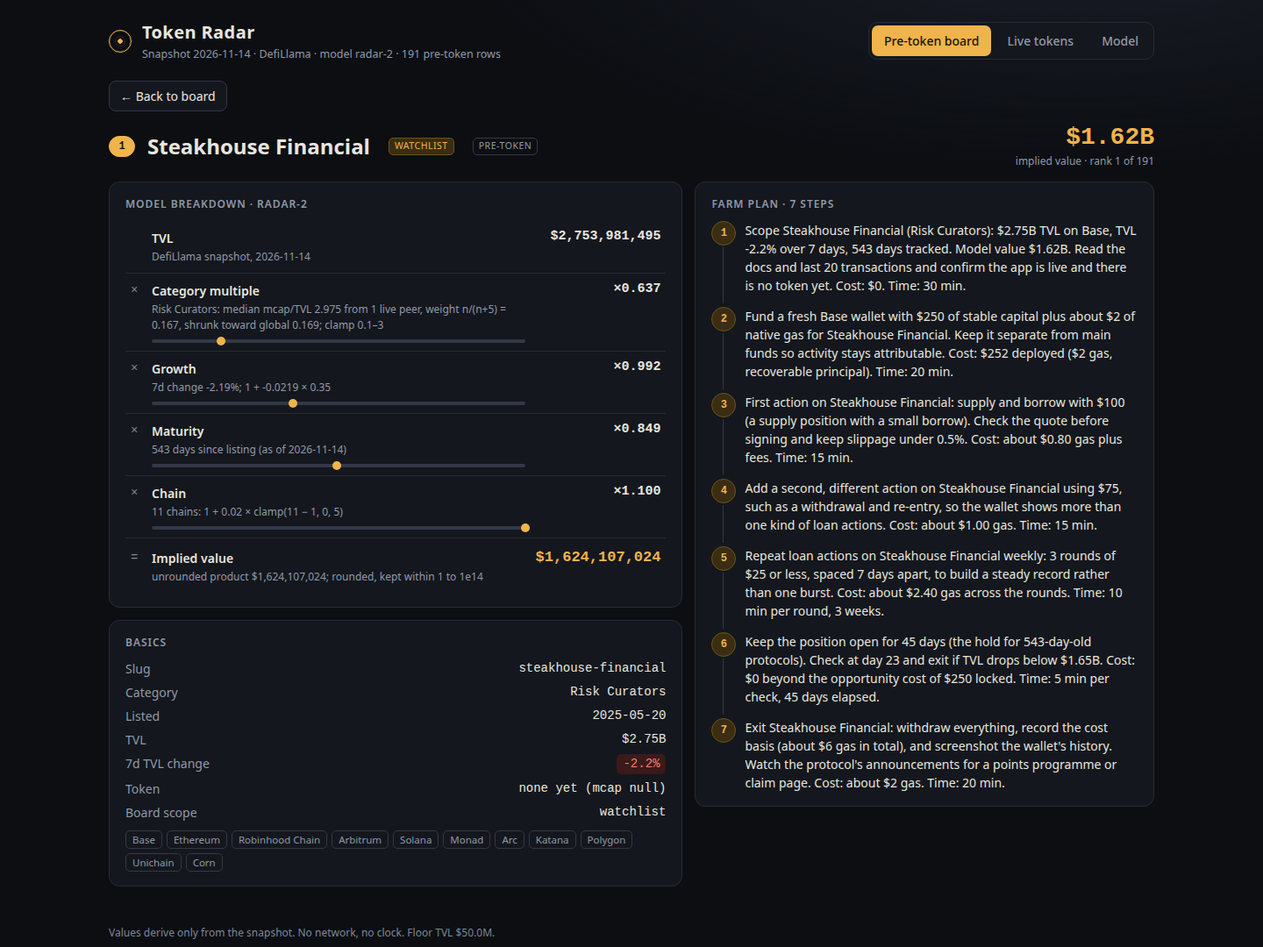
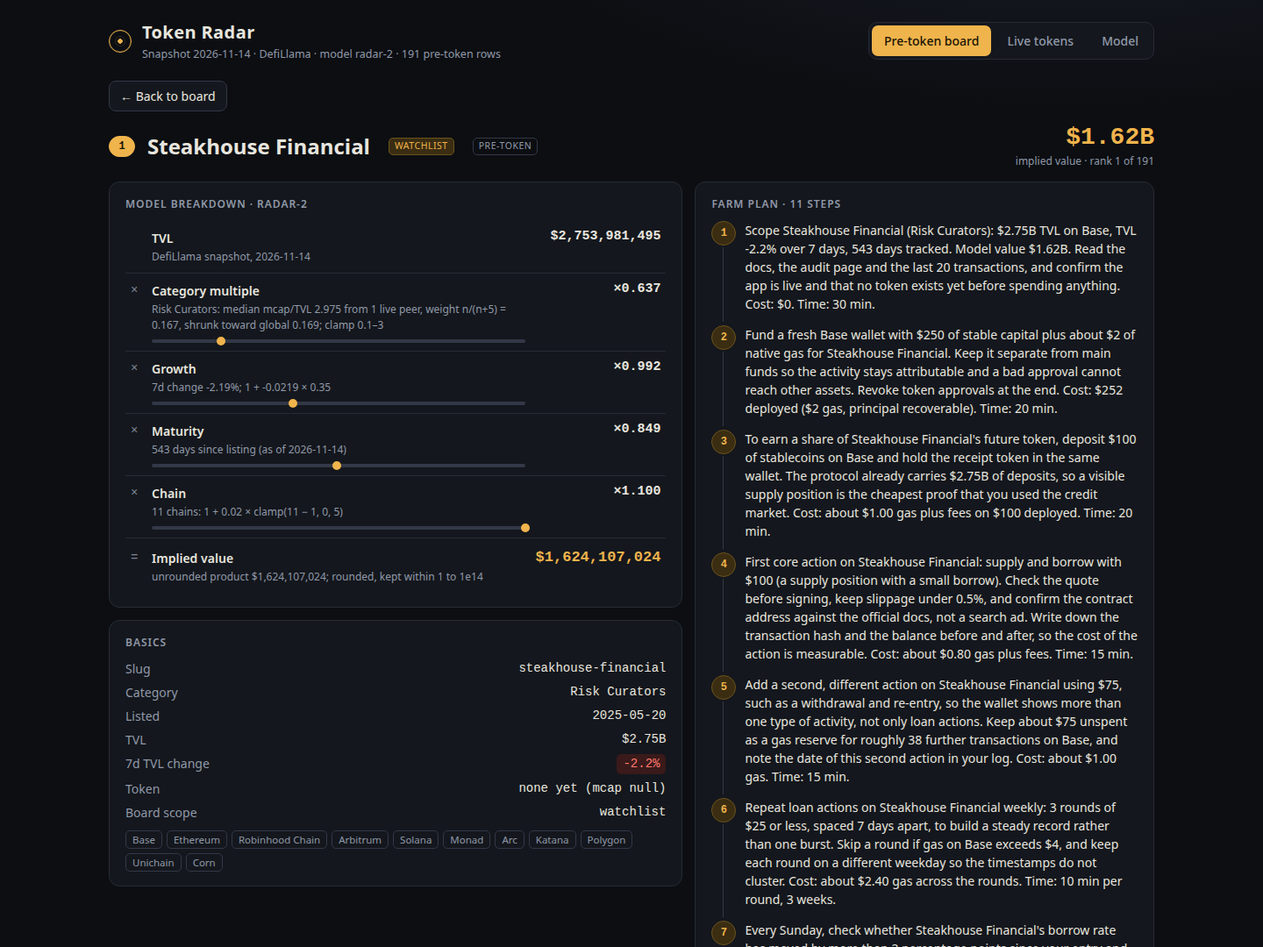
Farm plan v5: archetype-based step patterns (Gemini pattern system), 11 steps per plan

Changed region(s): [[0.5625, 0.275, 0.9062, 1.0], [0.0938, 0.9778, 0.4062, 1.0], [0.625, 0.2139, 0.6562, 0.2444]]

diff --git a/lib/farm.ts b/lib/farm.ts
@@ -1,0 +1,202 @@
+// Farm plan generator. Category -> one of six archetypes (Gemini pattern system, see CLAUDE.md v5), then a fixed step skeleton:
+// Scope, Fund, Opening(3 variants), First action, Second action, Repeat, Monitoring(2), Hold, Record-keeping(8), Exit(2), Wrap-up.
+// Pattern choice is a pure hash of the slug (FNV-1a), so the same snapshot always yields the same text. No clock, no randomness.
+import type { Factors, Protocol } from './model.ts';
+
+export type Archetype = 'lending' | 'dex' | 'yield' | 'deriv' | 'bridge' | 'market';
+
+// Snapshot category name -> archetype. Exact names first; unknown names fall through to keyword rules, then to 'yield'.
+const CATEGORY_TABLE: Record<string, Archetype> = {
+  'Lending': 'lending', 'Uncollateralized Lending': 'lending', 'CDP': 'lending', 'CDP Manager': 'lending', 'Collateral Markets': 'lending',
+  'Collateral Management': 'lending', 'Risk Curators': 'lending', 'Onchain Capital Allocator': 'lending', 'Stablecoin Issuer': 'lending',
+  'Dual-Token Stablecoin': 'lending', 'Algo-Stables': 'lending', 'Reserve Currency': 'lending', 'Stablecoin Wrapper': 'lending',
+  'Dexs': 'dex', 'Liquidity Manager': 'dex', 'Launchpad': 'dex', 'Indexes': 'dex', 'OTC Marketplace': 'dex', 'Token Locker': 'dex',
+  'Yield': 'yield', 'Yield Aggregator': 'yield', 'Farm': 'yield', 'Leveraged Farming': 'yield', 'Basis Trading': 'yield', 'Staking Pool': 'yield',
+  'Liquid Staking': 'yield', 'Restaking': 'yield', 'Liquid Restaking': 'yield', 'Restaked BTC': 'yield', 'Anchor BTC': 'yield',
+  'Decentralized BTC': 'yield', 'RWA': 'yield', 'CeDeFi': 'yield', 'Governance Incentives': 'yield', 'DOR': 'yield',
+  'Derivatives': 'deriv', 'Options': 'deriv', 'Options Vault': 'deriv', 'Synthetics': 'deriv', 'Interest Rate Derivatives': 'deriv',
+  'Bridge': 'bridge', 'Cross Chain Bridge': 'bridge', 'Canonical Bridge': 'bridge', 'Chain': 'bridge', 'Privacy': 'bridge',
+  'Payments': 'bridge', 'Crypto Card Issuer': 'bridge',
+  'Prediction Market': 'market', 'AI Agents': 'market', 'Decentralized AI': 'market', 'NFT Marketplace': 'market', 'Insurance': 'market',
+};
+const KEYWORD_RULES: [RegExp, Archetype][] = [
+  [/predict|gam|nft|ai\b|insur|bet/i, 'market'],
+  [/deriv|option|perp|synthetic|futures|rate/i, 'deriv'],
+  [/bridge|cross|chain|payment|card|privacy/i, 'bridge'],
+  [/lend|borrow|loan|cdp|collateral|credit|stable|curator|allocator/i, 'lending'],
+  [/dex|swap|amm|liquidity|launch|exchange|market|otc/i, 'dex'],
+  [/yield|vault|stak|farm|rwa|basis|bond|index/i, 'yield'],
+];
+export function archetypeOf(category: string | null): Archetype {
+  if (category !== null) {
+    const hit = CATEGORY_TABLE[category];
+    if (hit !== undefined) return hit;
+    for (const [re, a] of KEYWORD_RULES) if (re.test(category)) return a;
+  }
+  return 'yield';
+}
+
+function hash(s: string): number {
+  let h = 0x811c9dc5;
+  for (let i = 0; i < s.length; i++) { h ^= s.charCodeAt(i); h = Math.imul(h, 0x01000193) >>> 0; }
+  return h >>> 0;
+}
+const pick = <T,>(xs: T[], slug: string, slot: string): T => xs[hash(`${slot}:${slug}`) % xs.length]!;
+
+const fmtM = (n: number) => (n >= 1e9 ? `$${(n / 1e9).toFixed(2)}B` : `$${(n / 1e6).toFixed(1)}M`);
+export function capitalFor(tvl: number): number { return tvl < 25e6 ? 50 : tvl < 100e6 ? 100 : tvl < 500e6 ? 150 : 250; }
+export function holdDaysFor(ageUsed: number): number { return ageUsed < 90 ? 14 : ageUsed < 365 ? 30 : ageUsed < 1095 ? 45 : 60; }
+
+// Concrete action wording per archetype (the pre-v5 "kit"), used by the First / Second / Repeat steps.
+const KITS: Record<Archetype, { act: string; ask: string; verb: string }> = {
+  lending: { act: 'supply and borrow', ask: 'a supply position with a small borrow', verb: 'loan actions' },
+  dex: { act: 'swap and provide liquidity', ask: 'a stable pair LP position', verb: 'swaps' },
+  yield: { act: 'deposit into a vault or stake', ask: 'a single deposit', verb: 'vault actions' },
+  deriv: { act: 'trade a small perp or option position', ask: 'a low-leverage position', verb: 'trades' },
+  bridge: { act: 'bridge assets', ask: 'a round-trip bridge transfer', verb: 'bridge transfers' },
+  market: { act: 'place a small position or buy an in-app item', ask: 'one small market position', verb: 'market actions' },
+};
+
+interface Ctx {
+  n: string; ch: string; chB: string; tvl: string; tvl60: string; cap: number; slice: number; half: number; rest: number; small: number; big: number;
+  gas: number; hold: number; asset: string; trend: string;
+}
+type Pat = (c: Ctx) => string;
+
+const OPENING: Record<Archetype, Pat[]> = {
+  lending: [
+    (c) => `To earn a share of ${c.n}'s future token, deposit $${c.slice} of ${c.asset} on ${c.ch} and hold the receipt token in the same wallet. The protocol already carries ${c.tvl} of deposits, so a visible supply position is the cheapest proof that you used the credit market.`,
+    (c) => `Borrow a small amount of stablecoin against the collateral you supplied on ${c.n} (${c.ch}), keeping the loan under 30% of the collateral value, about $${Math.round(c.slice * 0.3)}. A live debt position traces back to a single wallet, which idle capital parked in a vault never does.`,
+    (c) => `Your first move on ${c.n} is to open a 200% collateralised position on ${c.ch} with $${c.slice} of collateral, because a debt position is the only on-chain footprint that proves you used the credit engine. Mint or borrow no more than $${Math.round(c.slice / 2)} against it.`,
+  ],
+  dex: [
+    (c) => `Swap $${c.small} of ${c.asset} for a second asset through ${c.n} on ${c.ch} and keep the route receipt in your wallet. Against ${c.tvl} of liquidity the price impact stays small, and the swap history is the clearest proof that you routed through it.`,
+    (c) => `Provide $${c.slice} of liquidity to the deepest stable pair on ${c.n} (${c.ch}) and set a price range that matches the last 30 days of volatility rather than copying the default range. A narrow range on ${c.tvl} of TVL earns more fees per dollar, so check it twice.`,
+    (c) => `Run three differently sized swaps on ${c.n} over three days: a $${c.small} test swap, a $${c.half} main swap, and a $${c.big} swap. Spacing them out makes your activity read as a trader's habit instead of a one-off airdrop farm on ${c.ch}.`,
+  ],
+  yield: [
+    (c) => `Stake or deposit $${c.slice} of ${c.asset} with ${c.n} on ${c.ch} and hold the resulting receipt token in the same wallet, so the yield position doubles as a verifiable receipt. The protocol holds ${c.tvl} of deposits, and ${c.trend}.`,
+    (c) => `Split $${c.slice} across two of ${c.n}'s strategies on ${c.ch}, $${c.half} each, because the yield only makes sense if you can compare the two returns side by side in your own records. Note the entry date of each so you can measure the difference later.`,
+    (c) => `Deposit $${c.slice} into ${c.n}'s main vault on ${c.ch}, then immediately note the entry APY shown on the app and the lock-up end date. Without those two numbers the rest of the plan has no baseline, and the pool holds ${c.tvl} to compare against.`,
+  ],
+  deriv: [
+    (c) => `Open a $${c.slice} long position on a major market on ${c.n} with 2x leverage and a stop-loss at 10%, because a live position with defined risk is the activity the derivatives desk actually tracks. Margin is $${c.half}, and ${c.n} carries ${c.tvl} of collateral.`,
+    (c) => `Sell a short-dated covered option or provide margin liquidity on ${c.n} (${c.ch}) with $${c.slice}, treating the premium as your fee for supplying what the market needs. Choose an expiry within ${c.hold} days so the position matures inside this plan.`,
+    (c) => `Hedge $${c.half} of spot ${c.asset} by shorting the same amount on ${c.n}'s perp market, then keep both legs open for at least 14 days so the hedge, not a single trade, becomes your track record. The funding leg costs a few dollars on ${c.ch}.`,
+  ],
+  bridge: [
+    (c) => `Bridge $${c.slice} of ${c.asset} from ${c.ch} to ${c.chB} through ${c.n} in two tranches: $${c.half} now and $${c.half} in 7 days. A bridge that sees sustained use looks like adoption, and ${c.n} already secures ${c.tvl} of locked value.`,
+    (c) => `Use ${c.n} to move $${c.slice} of ${c.asset} from ${c.ch} to ${c.chB}, then immediately deploy it into that chain's native app. A bridge transfer that ends in a dead wallet looks like a test, not adoption, and the second leg costs about $${c.gas} of gas.`,
+    (c) => `Send a $${c.small} test bridge through ${c.n} first, confirm the arrival time and fee, then send the remaining $${c.slice - c.small} only after the test lands within 20 minutes. This costs one extra gas payment but protects ${c.slice - c.small} dollars from a bad route.`,
+  ],
+  market: [
+    (c) => `Place a $${c.small} position on one open market on ${c.n} (${c.ch}) and keep it open until resolution, because a settled outcome is the only bet the platform can verify end to end. Pick a market that resolves within ${c.hold} days.`,
+    (c) => `Buy $${c.slice} worth of an in-app item or position on ${c.n} (${c.ch}) and use it in your next 5 sessions, so your on-chain inventory and your activity history tell the same story. The platform holds ${c.tvl} in total.`,
+    (c) => `Split $${c.slice} across three markets on ${c.n}: a $${c.small} short-term position, a $${c.half} medium-term one, and the remainder as a long shot. Log the entry price of each so you can compare your hit rate later. TVL stands at ${c.tvl}.`,
+  ],
+};
+const OPENING_COST = (c: Ctx) => `Cost: about $${(c.gas * 0.5).toFixed(2)} gas plus fees on $${c.slice} deployed. Time: 20 min.`;
+
+const MONITOR: Record<Archetype, Pat[]> = {
+  lending: [
+    (c) => `Once a week, open the ${c.n} dashboard and record your health factor, outstanding debt, and liquidation price, then compare with last week to spot a slow drift before it becomes a margin call. Also note whether ${c.n}'s TVL has moved from ${c.tvl}.`,
+    (c) => `Every Sunday, check whether ${c.n}'s borrow rate has moved by more than 2 percentage points since your entry and whether total borrows grew or shrank, because a sudden rate spike is usually the first sign that the pool is about to change. ${c.trend}.`,
+  ],
+  dex: [
+    (c) => `Every Monday, note the 24-hour volume and fee APR of your pool on ${c.n} and check whether your share of the pool has been diluted by more than 10% since last week. TVL began at ${c.tvl}, and ${c.trend}.`,
+    (c) => `Once a week, compare the price impact of a $${c.small} swap on ${c.n} with the same swap on a rival DEX and log which route was cheaper, so you can justify staying or moving your liquidity. A gap above 0.3% is worth a note.`,
+  ],
+  yield: [
+    (c) => `Every Friday, record ${c.n}'s current APY, your accrued rewards, and the price of the receipt token against ${c.asset}, then flag any week where the APY drops by more than 25% relative to your entry. ${c.trend}.`,
+    (c) => `Once a week, check whether ${c.n}'s total deposits have risen or fallen by more than 15% from ${c.tvl} and whether the strategy or validator set has changed, because a shrinking base often precedes a yield cut.`,
+  ],
+  deriv: [
+    (c) => `Every three days, check your perp's funding rate, open interest, and liquidation price on ${c.n}, and log any funding flip from positive to negative, because that flip shows which side of the market is paying to stay open. ${c.trend}.`,
+    (c) => `Once a week, review the implied volatility of your ${c.n} position and the time left to expiry, then decide whether to roll it or let it expire based on remaining time value, not on price alone. Collateral stood at ${c.tvl} at entry.`,
+  ],
+  bridge: [
+    (c) => `Every week, time a $${c.small} bridge transfer on ${c.n} from ${c.ch} to ${c.chB}, record the fee and the minutes to finality, and flag any week where the fee rises by more than 50%. ${c.trend}.`,
+    (c) => `Once a week, check ${c.n}'s total bridged volume and the number of destination chains, then note whether your own route is still among the top three by volume or has fallen out of use. Locked value began at ${c.tvl}.`,
+  ],
+  market: [
+    (c) => `Every Sunday, check the open interest and the price movement on your ${c.n} market, then record whether your position is in profit or loss and whether the market's volume has doubled or halved since entry. ${c.trend}.`,
+    (c) => `Once a week, log your ${c.n} sessions, the items you earned, and the floor price of your main in-app asset, then flag any week where the active user count drops by more than 20%. Platform TVL began at ${c.tvl}.`,
+  ],
+};
+const MONITOR_COST = (c: Ctx) => `Cost: $0 beyond gas for test actions (about $${(c.gas * 0.3).toFixed(2)}). Time: 10 min per check, weekly.`;
+
+const RECORD: Pat[] = [
+  (c) => `Create a single spreadsheet row per protocol with columns for Date, Protocol, Chain, Action, Amount In, Amount Out, Gas Fee, Tx Hash, TVL at Entry (${c.tvl} for ${c.n}), Current TVL, Entry APY, Current APY, and Notes, then fill it within 10 minutes of every transaction on ${c.ch}.`,
+  (c) => `Keep a dated notes file for ${c.n} and, after each weekly check, add one line with the date, the metric you checked, the value you saw, and one sentence on what changed since last week. Over ${c.hold} days this gives you about ${Math.max(2, Math.round(c.hold / 7))} entries to review.`,
+  (c) => `Save every ${c.n} transaction hash in a "Proof" column next to the action it belongs to, and paste the ${c.ch} block explorer link beside it, so you can prove the position existed without re-opening the wallet. Budget $${c.cap} is the whole exposure.`,
+  (c) => `Log your entry and exit triggers in the same row as the position: write "Exit if TVL < 60% of ${c.tvl}" (that is ${c.tvl60}) and "Exit on Day 90 if no announcement", then add the actual exit date and reason when you close ${c.n}.`,
+  (c) => `Track your $${c.cap} budget for ${c.n} as three separate lines: $${Math.round(c.cap * 0.45)} for the main action, $${Math.round(c.cap * 0.35)} for the second action, and $${c.cap - Math.round(c.cap * 0.45) - Math.round(c.cap * 0.35)} held back for gas and fees. Update the remaining balance after each spend.`,
+  (c) => `Screenshot your dashboard balance and your position page on ${c.n} once a week, name the file YYYY-MM-DD_${c.n.toLowerCase().replace(/[^a-z0-9]+/g, '-')}_position.png, and store it in a folder named after the protocol, so the visual record matches the spreadsheet for the ${c.hold}-day hold.`,
+  (c) => `Record gas separately from the action: log the gas token, the gas amount, the USD value at the time, and the chain (${c.ch}). Expect about $${c.gas} per transaction here, so that you can later calculate your true net return on the $${c.cap} after fees.`,
+  (c) => `At the end of each month, add a summary row that totals your ${c.n} deposits, withdrawals, fees paid, rewards earned, and current position value, then write one line on whether the farm is still worth $${c.cap} of locked capital, given that ${c.trend}.`,
+];
+const RECORD_COST = `Cost: $0. Time: 10 min setup, about 5 min per entry.`;
+
+const EXIT: Record<Archetype, Pat[]> = {
+  lending: [
+    (c) => `Close the position and repay the loan if your health factor falls below 1.3 for two consecutive checks, or if ${c.n}'s TVL drops below 60% of its entry value, which is under ${c.tvl60}. Repay before withdrawing, in that order, on ${c.ch}.`,
+    (c) => `Unwind the position on day 90 if ${c.n} has still not announced a token, snapshot, or points program, and do not re-enter on the same wallet until a new public milestone appears. Keep the closed history untouched for a future snapshot.`,
+  ],
+  dex: [
+    (c) => `Withdraw your liquidity if the pool's TVL falls below 60% of its value at entry (${c.tvl60} for the protocol as a whole) or if the fee APR stays below 3% for three consecutive weeks. Pull the full $${c.slice} and note the fees earned.`,
+    (c) => `Stop routing swaps through ${c.n} after 90 days without a token announcement and move your volume to the next DEX on your watchlist, keeping the old wallet history on ${c.ch} untouched for a future snapshot.`,
+  ],
+  yield: [
+    (c) => `Unstake and exit if the receipt token depegs by more than 2% from ${c.asset} for 48 hours, or if ${c.n}'s TVL falls below 60% of its entry value, i.e. under ${c.tvl60}. Harvest accrued rewards first, then withdraw principal.`,
+    (c) => `Close the position on day 90 with no token or points announcement, harvest the accrued yield first, and redeploy the principal of about $${c.slice} to the next yield protocol on your list. Keep the ${c.ch} wallet history intact.`,
+  ],
+  deriv: [
+    (c) => `Close the position immediately if your unrealised loss reaches 25% of margin (about $${Math.round(c.half * 0.25)}), or if ${c.n}'s open interest collapses by more than 40% in a single week. Do not average down on ${c.ch}.`,
+    (c) => `Exit on day 90 if ${c.n} has not published a token, fee-sharing, or points update, and do not open a new leveraged position on the same market until a fresh catalyst appears. Close all legs in one session.`,
+  ],
+  bridge: [
+    (c) => `Stop bridging through ${c.n} if its TVL drops below 60% of your entry level (${c.tvl60}) for two consecutive weeks, or if a transfer takes more than 30 minutes twice in a row. Route the remaining funds back via the canonical path.`,
+    (c) => `Abandon the route on day 90 with no token announcement and consolidate your funds back to ${c.ch}, keeping a record of the final bridge transaction hash for any retroactive claim. Final transfer is about $${c.cap}.`,
+  ],
+  market: [
+    (c) => `Cash out if your position loses more than 25% of its entry value, or if ${c.n}'s daily active users fall below 60% of the level you saw on entry. With a $${c.small} position that caps the loss at about $${Math.round(c.small * 0.25)}.`,
+    (c) => `Stop using ${c.n} on day 90 if there is still no token, season, or rewards announcement, sell the in-app items you no longer need, and move the recovered capital of up to $${c.cap} to the next platform on your list.`,
+  ],
+};
+const EXIT_COST = (c: Ctx) => `Cost: about $${c.gas} gas per exit transaction. Time: 15 min.`;
+
+export function farmPlan(p: Protocol, f: Factors, implied: number): string[] {
+  const arch = archetypeOf(p.category);
+  const kit = KITS[arch];
+  const chain = p.chains[0] ?? 'its main chain';
+  const cap = capitalFor(p.tvl_usd), hold = holdDaysFor(f.age_used);
+  const gas = chain === 'Ethereum' ? 12 : 2;
+  const slice = Math.round(cap * 0.4), reserve = cap - slice;
+  const small = Math.max(5, Math.round(cap * 0.05));
+  const trend = p.change_7d === null ? 'there is no 7-day TVL reading' : `TVL moved ${p.change_7d >= 0 ? '+' : ''}${p.change_7d.toFixed(1)}% over 7 days`;
+  const c: Ctx = {
+    n: p.name, ch: chain, chB: p.chains[1] ?? 'a second chain you already use', tvl: fmtM(p.tvl_usd), tvl60: fmtM(p.tvl_usd * 0.6),
+    cap, slice, half: Math.round(slice / 2), rest: reserve, small, big: Math.round(cap * 0.15), gas, hold,
+    asset: arch === 'yield' && /stak|chain/i.test(p.category ?? '') ? `${chain}'s native token` : 'stablecoins', trend,
+  };
+  const trendTxt = p.change_7d === null ? 'no 7-day TVL reading' : `TVL ${p.change_7d >= 0 ? '+' : ''}${p.change_7d.toFixed(1)}% over 7 days`;
+  const ageTxt = f.age_days === null ? 'unknown listing age' : `${f.age_days} days tracked`;
+  const hold2 = Math.max(7, Math.round(hold / 2));
+  const opening = pick(OPENING[arch], p.slug, 'open')(c);
+  const monitor = pick(MONITOR[arch], p.slug, 'mon')(c);
+  const record = pick(RECORD, p.slug, 'rec')(c);
+  const exit = pick(EXIT[arch], p.slug, 'exit')(c);
+  return [
+    `Scope ${p.name} (${p.category ?? 'uncategorised'}): ${fmtM(p.tvl_usd)} TVL on ${chain}, ${trendTxt}, ${ageTxt}. Model value ${fmtM(implied)}. Read the docs, the audit page and the last 20 transactions, and confirm the app is live and that no token exists yet before spending anything. Cost: $0. Time: 30 min.`,
+    `Fund a fresh ${chain} wallet with $${cap} of stable capital plus about $${gas} of native gas for ${p.name}. Keep it separate from main funds so the activity stays attributable and a bad approval cannot reach other assets. Revoke token approvals at the end. Cost: $${cap + gas} deployed ($${gas} gas, principal recoverable). Time: 20 min.`,
+    `${opening} ${OPENING_COST(c)}`,
+    `First ${arch === 'lending' ? 'core' : 'concrete'} action on ${p.name}: ${kit.act} with $${slice} (${kit.ask}). Check the quote before signing, keep slippage under 0.5%, and confirm the contract address against the official docs, not a search ad. Write down the transaction hash and the balance before and after, so the cost of the action is measurable. Cost: about $${(gas * 0.4).toFixed(2)} gas plus fees. Time: 15 min.`,
+    `Add a second, different action on ${p.name} using $${reserve - Math.round(reserve / 2)}, such as a withdrawal and re-entry, so the wallet shows more than one type of activity, not only ${kit.verb}. Keep about $${Math.round(reserve / 2)} unspent as a gas reserve for roughly ${Math.round(reserve / 2 / gas)} further transactions on ${chain}, and note the date of this second action in your log. Cost: about $${(gas * 0.5).toFixed(2)} gas. Time: 15 min.`,
+    `Repeat ${kit.verb} on ${p.name} weekly: 3 rounds of $${Math.max(5, Math.round(cap * 0.1))} or less, spaced 7 days apart, to build a steady record rather than one burst. Skip a round if gas on ${chain} exceeds $${gas * 2}, and keep each round on a different weekday so the timestamps do not cluster. Cost: about $${(gas * 1.2).toFixed(2)} gas across the rounds. Time: 10 min per round, 3 weeks.`,
+    `${monitor} ${MONITOR_COST(c)}`,
+    `Keep the position open for ${hold} days (the hold for ${f.age_days === null ? 'an unknown-age' : f.age_days + '-day-old'} protocols). Check at day ${hold2} and exit if TVL drops below ${fmtM(p.tvl_usd * 0.6)}. Do not top up during the hold, since extra deposits blur the entry record. Cost: $0 beyond the opportunity cost of $${cap} locked. Time: 5 min per check, ${hold} days elapsed.`,
+    `${record} ${RECORD_COST}`,
+    `${exit} ${EXIT_COST(c)}`,
+    `Wrap up ${p.name}: withdraw everything, record the cost basis (about $${Math.round(gas * 3)} gas in total), and screenshot the wallet's history. Watch the protocol's announcements for a points programme or claim page, and revoke the approvals you granted. Cost: about $${gas} gas. Time: 20 min.`,
+  ];
+}

diff --git a/lib/model.ts b/lib/model.ts
@@ -1,3 +1,4 @@
+import { farmPlan } from './farm.ts';
 // radar-2 value model: snapshot in, ranked pre-token board + live-token list out.
 // implied = TVL x category_multiple x growth x maturity x chain. Everything derives from snapshot numbers.
 
@@ -107,56 +108,6 @@ export function isExtraEligible(p: Protocol, brands: Set<string>) {
   if (DERIVATIVE_CATEGORY.test(p.category ?? '') || VERSIONED.test(p.name) || DERIVATIVE_NAME.test(p.name) || LST_TICKER_NAME.test(p.name)) return false;
   const words = `${p.name} ${p.slug}`.toLowerCase().split(/[^a-z0-9]+/);
   return !words.some((w) => brands.has(w));
-}
-
-// ---- farm plan ----
-type Kit = { act: string; ask: string; verb: string };
-const KITS: Record<string, Kit> = {
-  dex: { act: 'swap and provide liquidity', ask: 'a stable pair LP position', verb: 'swaps' },
-  lend: { act: 'supply and borrow', ask: 'a supply position with a small borrow', verb: 'loan actions' },
-  yield: { act: 'deposit into a vault', ask: 'a single vault deposit', verb: 'vault actions' },
-  stake: { act: 'stake or restake', ask: 'a staking deposit', verb: 'stake actions' },
-  bridge: { act: 'bridge assets', ask: 'a round-trip bridge transfer', verb: 'bridge transfers' },
-  deriv: { act: 'trade a small perp or option position', ask: 'a low-leverage position', verb: 'trades' },
-  cdp: { act: 'mint the stablecoin against collateral', ask: 'an over-collateralised mint', verb: 'mint and repay cycles' },
-  rwa: { act: 'subscribe to a tokenised asset', ask: 'a small primary subscription', verb: 'subscriptions' },
-  generic: { act: 'use the core product', ask: 'a small deposit', verb: 'core actions' },
-};
-function kitFor(category: string | null): Kit {
-  const c = (category ?? '').toLowerCase();
-  if (/dex|liquidity|amm|farm|launchpad/.test(c)) return KITS.dex!;
-  if (/lend|credit|collateral|allocator|curator/.test(c)) return KITS.lend!;
-  if (/yield|vault|basis|index|aggregator|cedefi/.test(c)) return KITS.yield!;
-  if (/stak|restak|chain/.test(c)) return KITS.stake!;
-  if (/bridge/.test(c)) return KITS.bridge!;
-  if (/deriv|option|perp|synthetic|prediction|rate/.test(c)) return KITS.deriv!;
-  if (/cdp|stable|algo|reserve/.test(c)) return KITS.cdp!;
-  if (/rwa|real|asset|payment|card/.test(c)) return KITS.rwa!;
-  return KITS.generic!;
-}
-export function capitalFor(tvl: number): number { return tvl < 25e6 ? 50 : tvl < 100e6 ? 100 : tvl < 500e6 ? 150 : 250; }
-export function holdDaysFor(age: number | null): number { const a = age ?? MODEL.unknown_age_days; return a < 90 ? 14 : a < 365 ? 30 : a < 1095 ? 45 : 60; }
-const fmtM = (n: number) => (n >= 1e9 ? `$${(n / 1e9).toFixed(2)}B` : `$${(n / 1e6).toFixed(1)}M`);
-
-export function farmPlan(p: Protocol, f: Factors, implied: number): string[] {
-  const kit = kitFor(p.category);
-  const chain = p.chains[0] ?? 'its main chain';
-  const cap = capitalFor(p.tvl_usd), hold = holdDaysFor(f.age_days);
-  const gas = chain === 'Ethereum' ? 12 : 2;
-  const slice = Math.round(cap * 0.4), reserve = cap - slice;
-  const trend = p.change_7d === null ? 'no 7-day TVL reading' : `TVL ${p.change_7d >= 0 ? '+' : ''}${p.change_7d.toFixed(1)}% over 7 days`;
-  const ageTxt = f.age_days === null ? 'unknown listing age' : `${f.age_days} days tracked`;
-  const hold2 = Math.max(7, Math.round(hold / 2));
-  const steps = [
-    `Scope ${p.name} (${p.category ?? 'uncategorised'}): ${fmtM(p.tvl_usd)} TVL on ${chain}, ${trend}, ${ageTxt}. Model value ${fmtM(implied)}. Read the docs and last 20 transactions and confirm the app is live and there is no token yet. Cost: $0. Time: 30 min.`,
-    `Fund a fresh ${chain} wallet with $${cap} of stable capital plus about $${gas} of native gas for ${p.name}. Keep it separate from main funds so activity stays attributable. Cost: $${cap + gas} deployed ($${gas} gas, recoverable principal). Time: 20 min.`,
-    `First action on ${p.name}: ${kit.act} with $${slice} (${kit.ask}). Check the quote before signing and keep slippage under 0.5%. Cost: about $${(gas * 0.4).toFixed(2)} gas plus fees. Time: 15 min.`,
-    `Add a second, different action on ${p.name} using $${reserve - Math.round(reserve / 2)}, such as a withdrawal and re-entry, so the wallet shows more than one kind of ${kit.verb}. Cost: about $${(gas * 0.5).toFixed(2)} gas. Time: 15 min.`,
-    `Repeat ${kit.verb} on ${p.name} weekly: 3 rounds of $${Math.max(5, Math.round(cap * 0.1))} or less, spaced 7 days apart, to build a steady record rather than one burst. Cost: about $${(gas * 1.2).toFixed(2)} gas across the rounds. Time: 10 min per round, 3 weeks.`,
-    `Keep the position open for ${hold} days (the hold for ${f.age_days === null ? 'an unknown-age' : f.age_days + '-day-old'} protocols). Check at day ${hold2} and exit if TVL drops below ${fmtM(p.tvl_usd * 0.6)}. Cost: $0 beyond the opportunity cost of $${cap} locked. Time: 5 min per check, ${hold} days elapsed.`,
-    `Exit ${p.name}: withdraw everything, record the cost basis (about $${Math.round(gas * 3)} gas in total), and screenshot the wallet's history. Watch the protocol's announcements for a points programme or claim page. Cost: about $${gas} gas. Time: 20 min.`,
-  ];
-  return steps;
 }
 
 // ---- board ----

diff --git a/dashboard/app.js b/dashboard/app.js
@@ -221,7 +221,7 @@
       '<li>Rule-based exclusions: wrapped, staked, bridged and versioned products (bridge, staking and wrapper categories; names such as wrapped, staked, bridge, LST; version suffixes), CEX-category entries, and exchange brands learned from the CEX names in the snapshot itself.</li>' +
       '<li>Protocols with a market cap are never on the board; they appear in the Live tokens tab at their real mcap.</li>' +
       '<li>Result: ' + R.watchlist_size + ' watchlist + ' + R.extra_size + ' early = ' + R.board_size + ' rows; ' + R.live_size + ' live-token protocols set aside.</li></ul>' +
-      '<h2>Farm plan</h2><p>Each row has a ' + rows[0].farm_steps.length + '-step plan with cost and time per step. Sizes are rule-based: capital $50 / $100 / $150 / $250 by TVL (under $25M, $100M, $500M, above), hold period 14 / 30 / 45 / 60 days by age (under 90, 365, 1095 days, older). The action wording follows the category. It is a template for a small, separate wallet, not financial advice.</p>' +
+      '<h2>Farm plan</h2><p>Each row has a ' + rows[0].farm_steps.length + '-step plan with cost and time per step. Opening, monitoring, record-keeping and exit steps are chosen from per-archetype wording by a hash of the slug. Sizes are rule-based: capital $50 / $100 / $150 / $250 by TVL (under $25M, $100M, $500M, above), hold period 14 / 30 / 45 / 60 days by age (under 90, 365, 1095 days, older). The action wording follows the category. It is a template for a small, separate wallet, not financial advice.</p>' +
       '<h2>Limits</h2><p>mcap / TVL is a crude comparable, and medians from small samples are noisy, hence the shrinkage and clamp. Growth uses one week of TVL change, so it moves with short-term swings. Chain count rewards reach, not usage. Treat ranks as a starting order for research.</p></article>';
   }
 

diff --git a/CLAUDE.md b/CLAUDE.md
@@ -45,3 +45,10 @@ mkdir -p out && MAKEFUN_OUTPUT_DIR=out node main.ts --input ../kit/token-radar-0
 
 ## 現段階のスコープ
 - 環境確認・キット理解・前提ファイル作成のみ完了。model / dashboard の実装、GitHub リポジトリ作成、キーペア作成、サインイン、提出はまだ行っていない。
+
+## v5: farm plan の第二深化（Gemini 4 Carbon のパターン体系を採用）
+- 分岐元: best（v1, 258efc5）。モデル式・board の行・順位・implied_value_usd は v1 と同一（farm_steps 以外の全フィールドを v1 出力と突き合わせて一致確認）。
+- plan 生成は `lib/farm.ts` に分離。category を Gemini の6アーキタイプ（lending / dex / yield / deriv / bridge / market）へ写像: snapshot の category 名の完全一致表 → 未知名はキーワード規則 → 既定は yield。
+- 各 plan は11ステップ: Scope → Fund → Opening(3種) → First action → Second action → Repeat → Monitoring(2種) → Hold → Record-keeping(8種) → Exit(2種) → Wrap-up。各ステップに Cost / Time を付与。
+- パターン選択は slug の FNV-1a ハッシュ（スロット別ソルト）。APY・ペア名など snapshot に無い値のプレースホルダは使わず、TVL・チェーン・資本配分・ガス額・60%閾値などの実値で置換。
+- gemini-brief1.md 由来の文面パターンは `lib/farm.ts` 内に収録。ダッシュボードは Model タブの farm plan 説明に1文追記のみ。スクリーンショットは再撮影（board / detail / filtered）。
